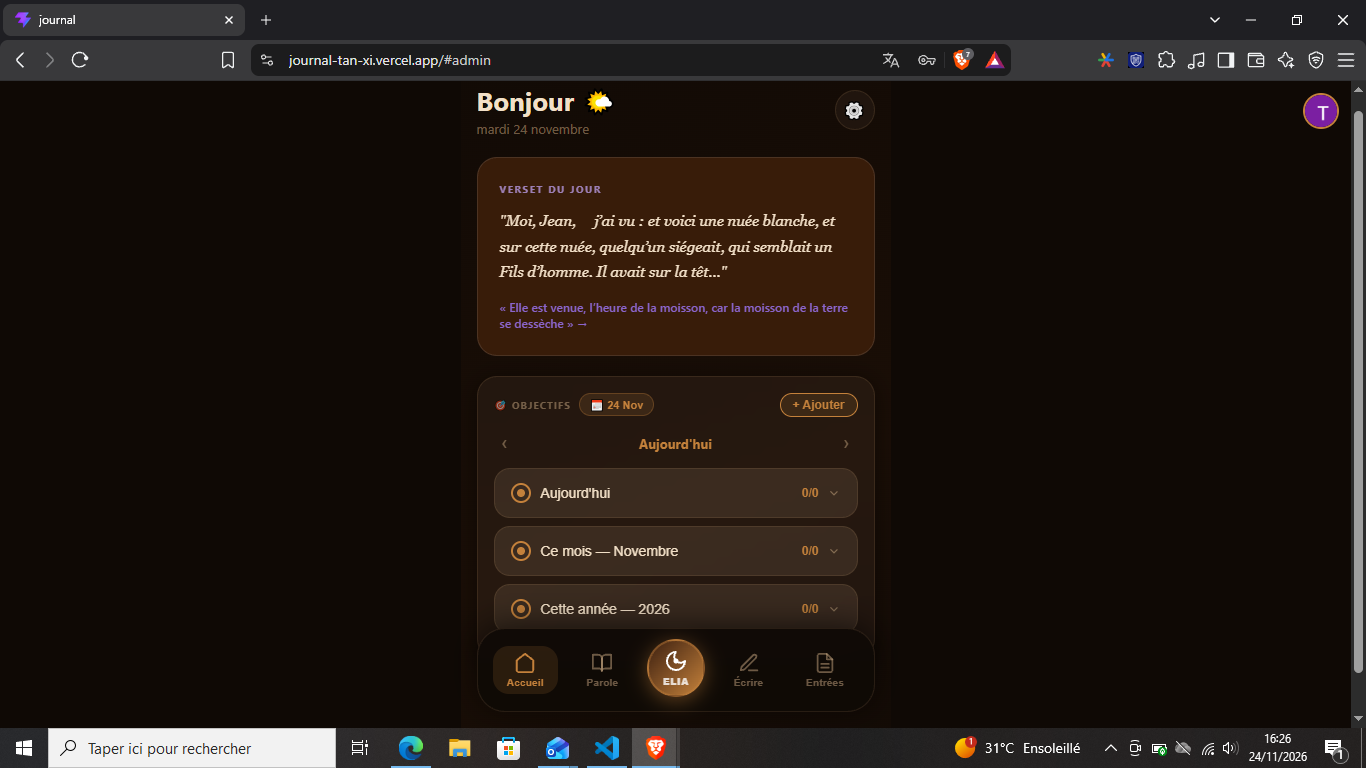
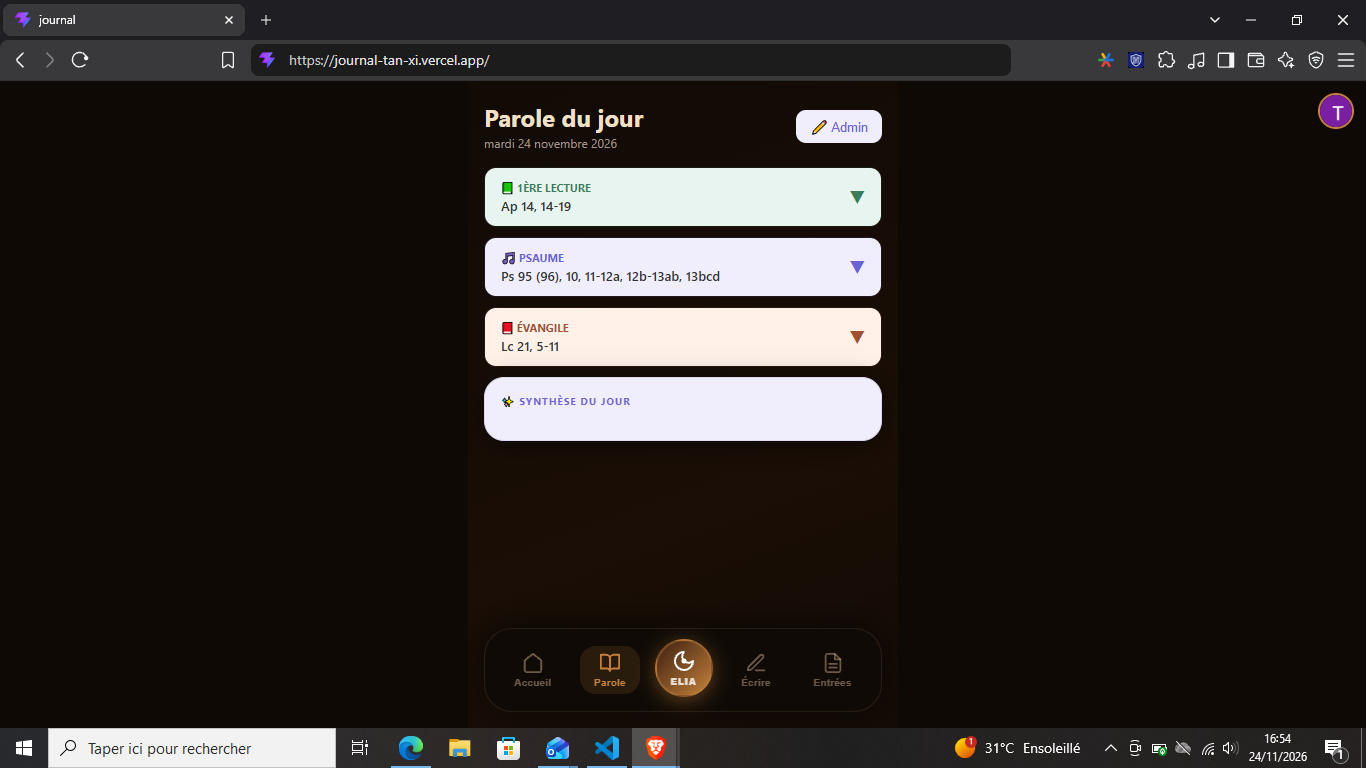
changement des captures que j'avais mis et  puis j'ai changé quelques lignes de mon readme

diff --git a/README.md b/README.md
@@ -22,7 +22,6 @@ Journal est une application de journal intime qui aide à écrire ses réflexion
 - Bilan spirituel périodique (« Wrapped »)
 - Objectifs et planning, avec tâches ponctuelles ou récurrentes
 - Lectures liturgiques du jour et prières contextualisées
-- Transcription audio des entrées
 - Interface en français et en anglais, avec thèmes clair et sombre
 
 ## Technologies
@@ -69,13 +68,35 @@ Ne publiez jamais `GROQ_KEY` ou `ADMIN_PASSWORD` dans le dépôt. Les valeurs `V
 
 ## Architecture
 
-Le navigateur utilise Firebase pour l'authentification et les données, et appelle les fonctions `/api` hébergées sur Vercel pour les traitements IA et les services associés.
+```mermaid
+flowchart LR
+    Browser[Navigateur React]
+    Firebase[(Firebase Auth / Firestore)]
+    Vercel[Fonctions Vercel]
+    Groq[Groq : IA et transcription]
+    AELF[API AELF]
+
+    Browser -->|Auth et données| Firebase
+    Browser -->|/api| Vercel
+    Vercel --> Groq
+    Vercel --> AELF
+```
 
 ## À propos du projet
 
-Ce projet m'a notamment appris à migrer le stockage du navigateur vers Firestore et à tenir compte des limites de durée des fonctions serverless lors du traitement audio.
+C'est mon premier gros projet, réalisé avec l'aide de l'IA. J'y ai énormément appris et j'ai vraiment essayé de comprendre chaque partie de ce que je construisais, plutôt que de simplement reprendre des solutions sans en saisir le fonctionnement. Ce projet m'a notamment appris à migrer le stockage du navigateur vers Firestore et à tenir compte des limites de durée des fonctions serverless lors du traitement audio.
 
 ## Auteur
 
 **Alexis Atindehou** — étudiant en génie logiciel (ISI-SUPTECH / UNCHK), Dakar  
 GitHub : [@Alexis102005](https://github.com/Alexis102005)
+
+## Limites connues
+
+- La transcription audio n'est pas fiable (modèle gratuit peu précis, taille des requêtes limitée sur Vercel).
+- ELIA peut ajouter des tâches au calendrier, mais la détection de conflits et la priorisation ne sont pas terminées.
+
+## Prochaines étapes
+
+- Vérifier le jeton Firebase dans les fonctions `/api` et limiter les requêtes par utilisateur
+- Ajouter des tests
